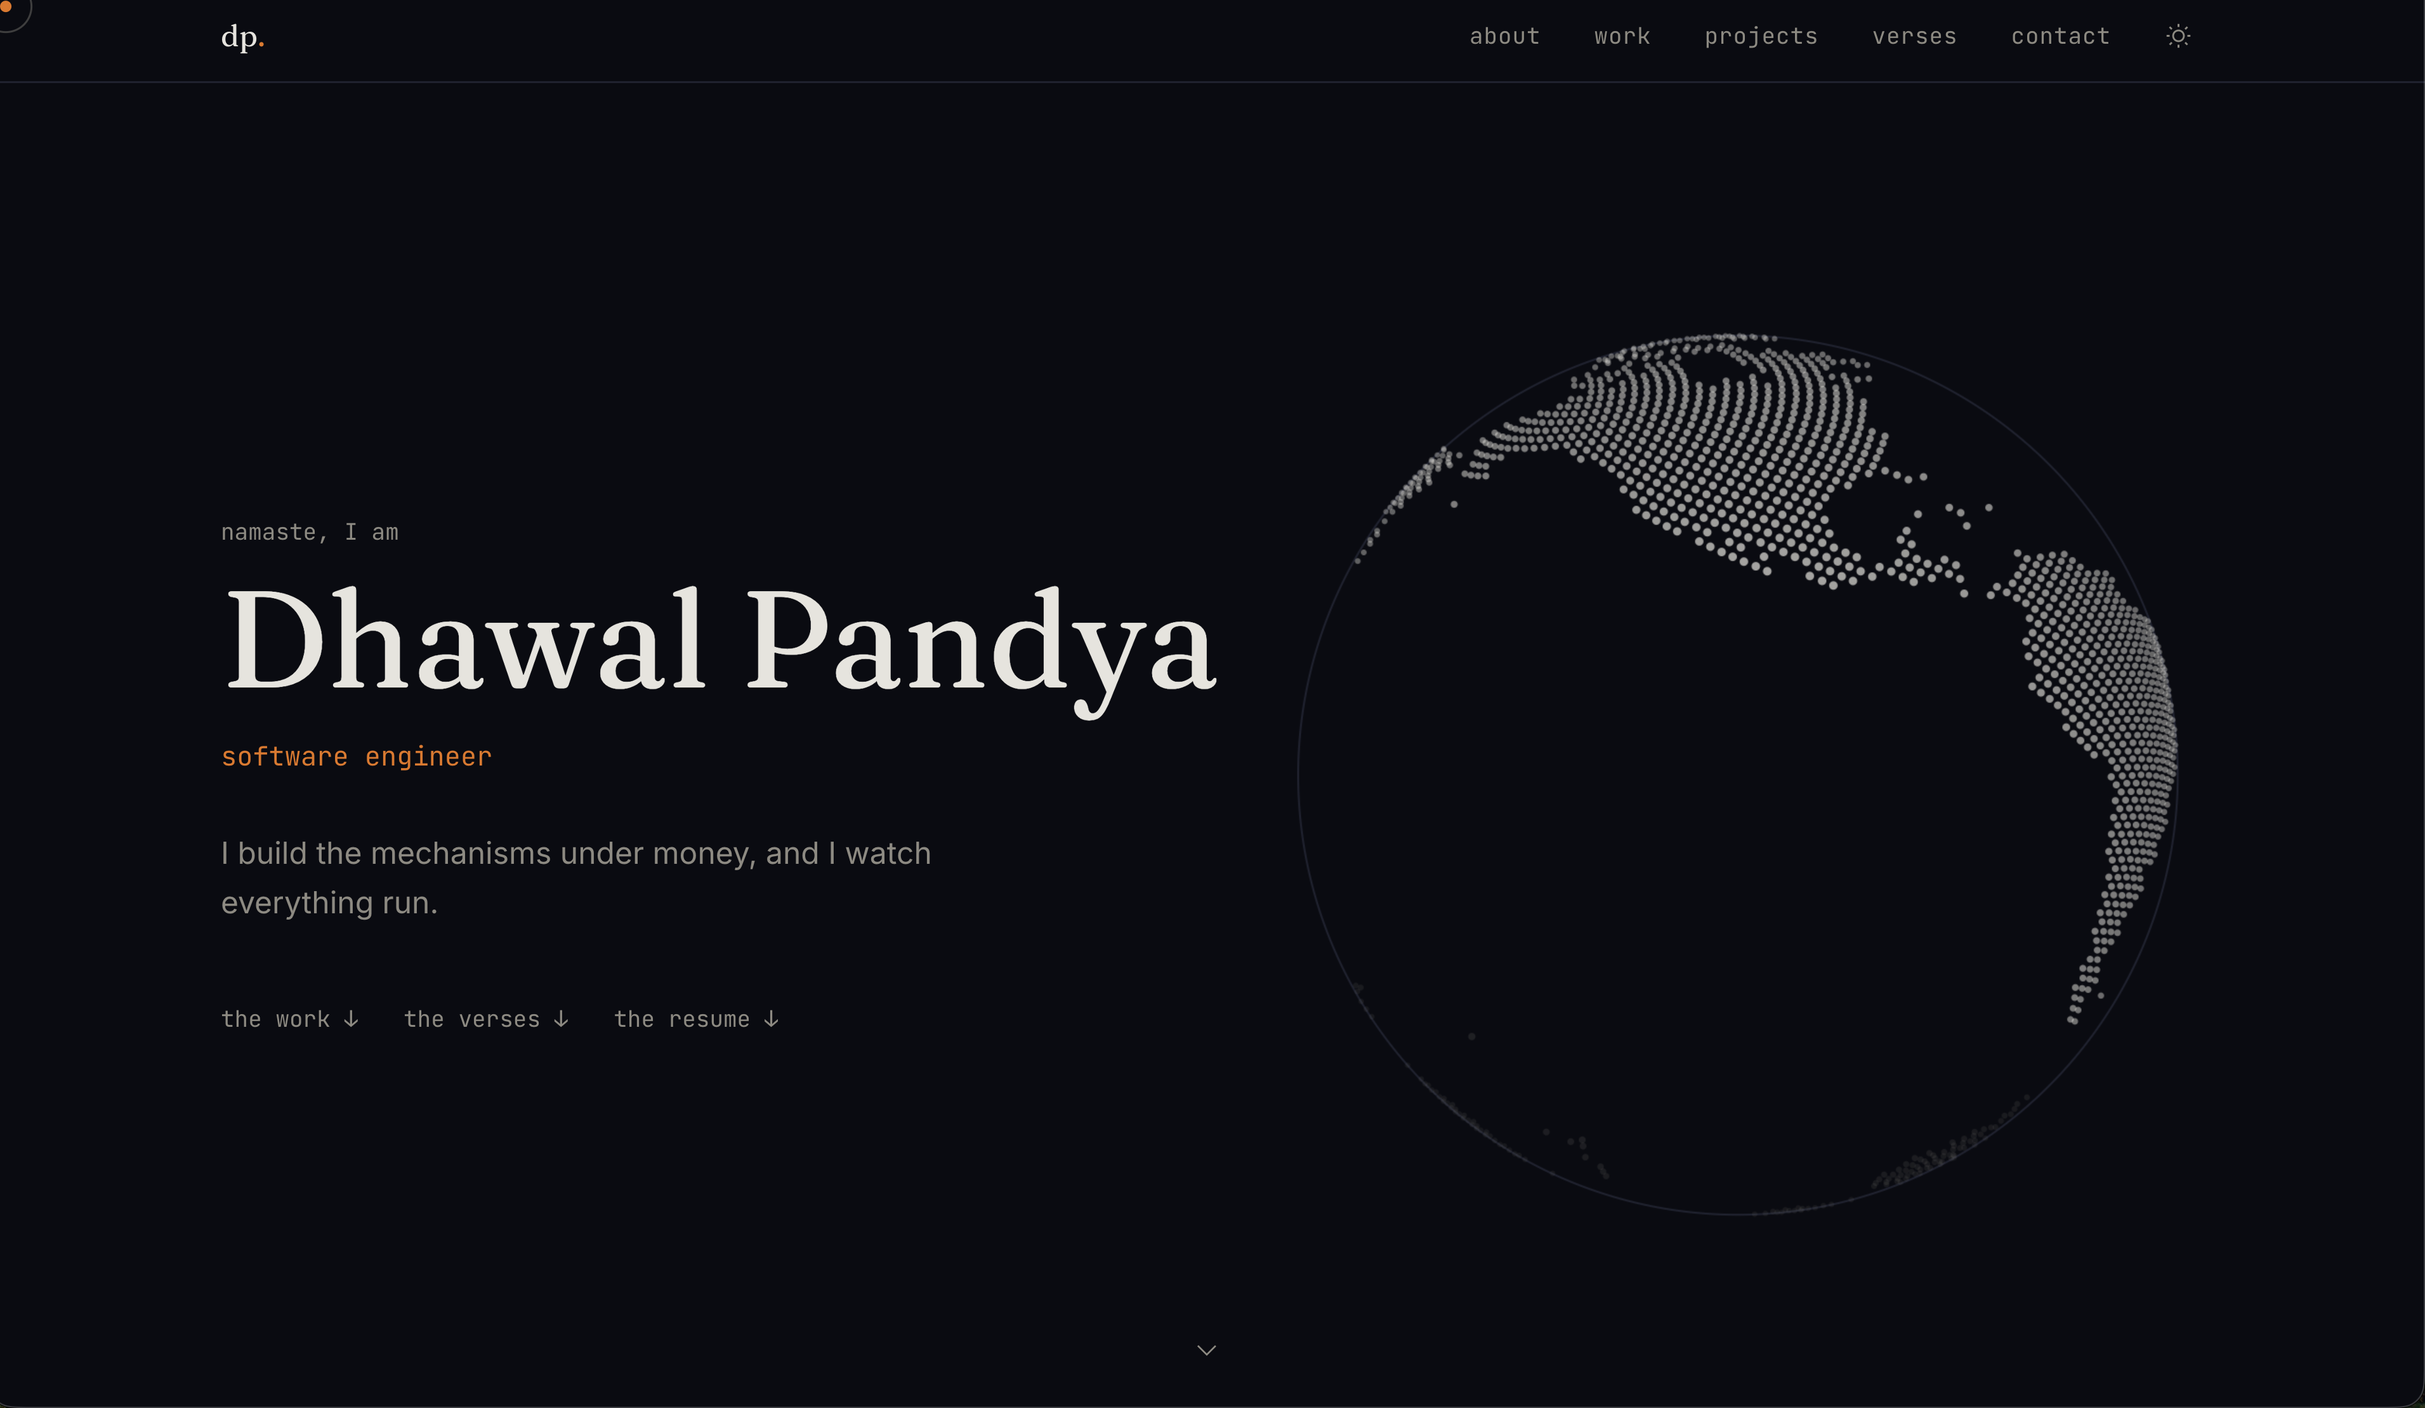
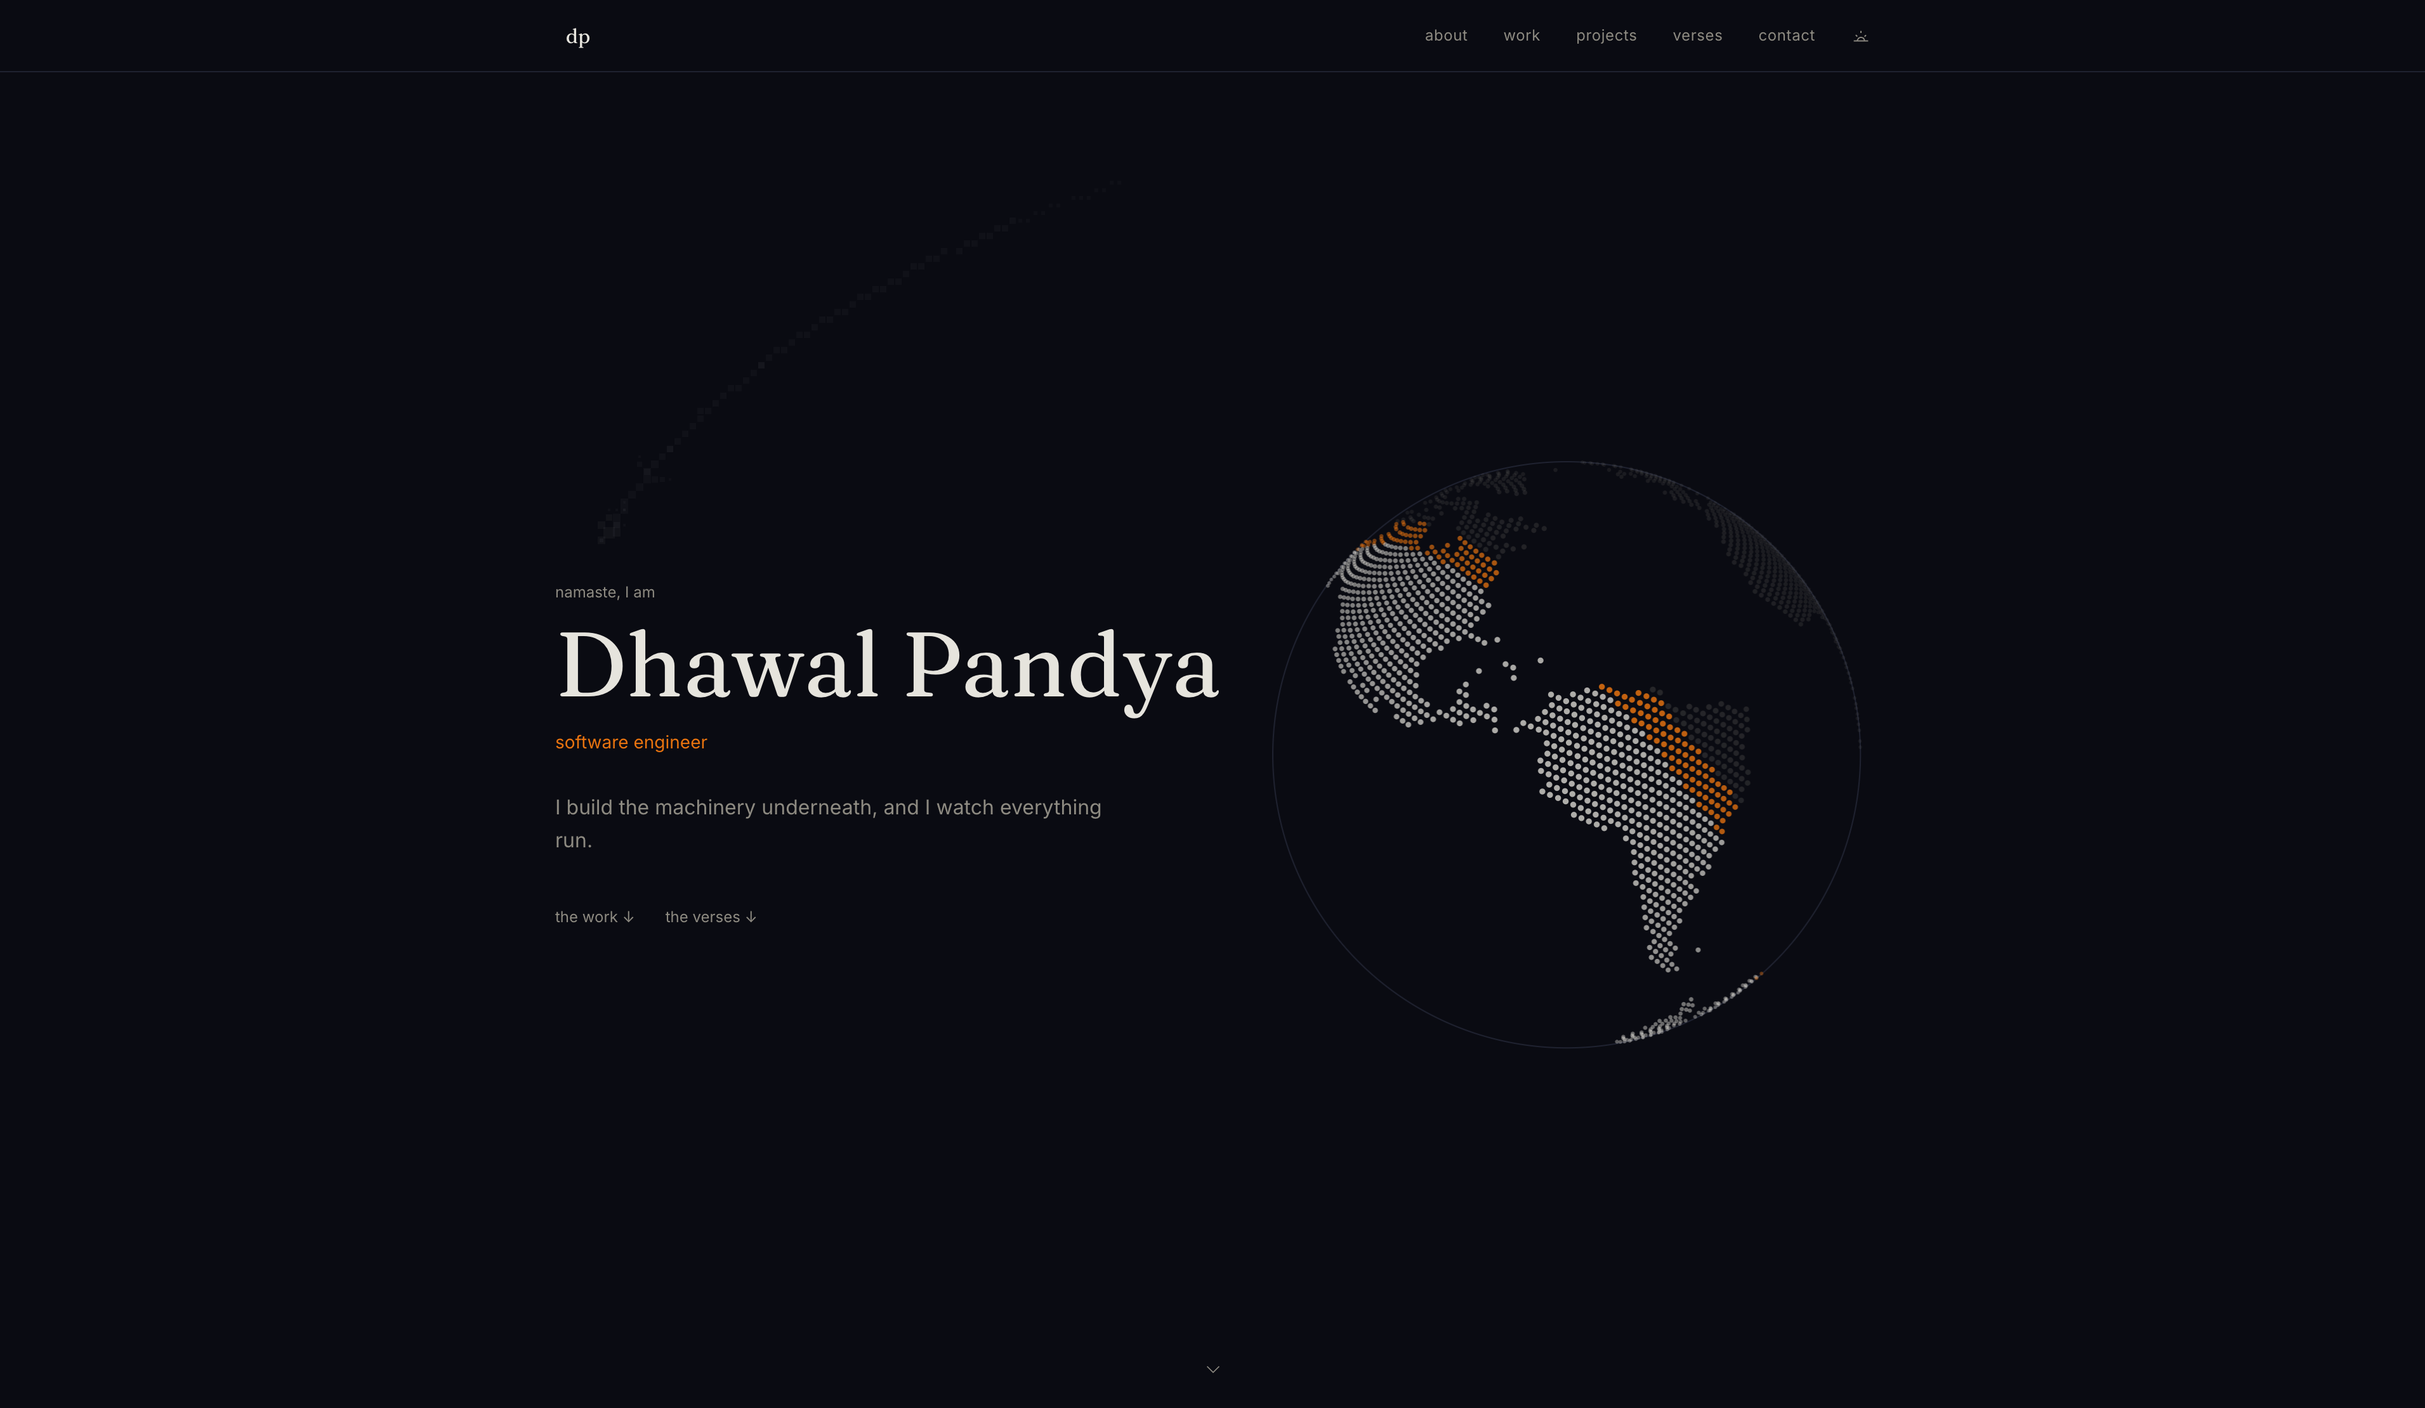
fix loose ends

diff --git a/src/components/secrets/Ash.jsx b/src/components/secrets/Ash.jsx
@@ -7,6 +7,15 @@ import useCanvasLoop from "../../lib/useCanvasLoop";
 // too tall the page breathes out once and begins again.
 
 const COL = 4; // px per pile column
+
+// How fast the room fills. Tune these by eye.
+const SPAWN = 5; // × flakes falling per second
+const SETTLE = 6; // × height each landed flake adds to the dune
+const RAMP = 45; // seconds of stillness to reach the heaviest fall
+const AIR = 3000; // most flakes aloft at once
+const SPREAD = [0.1, 0.2, 0.4, 0.2, 0.1]; // how a landing shares itself with neighbours
+const REPOSE = 2; // steepest step (px) between columns before the dune slumps
+
 const PILE_KEY = "kc-ash-pile";
 const CYCLE_KEY = "kc-ash-cycles";
 
@@ -157,11 +166,11 @@ const Ash = () => {
     // heavier it gets, up to a ceiling. Motion knocks it back down.
     const calm = 1 - Math.min(1, s.activity / 800);
     const idle = (Date.now() - s.lastInput) / 1000;
-    const ramp = Math.min(1, idle / 120); // two still minutes reach the ceiling
-    const rate = 1.5 + calm * (6 + 30 * ramp * ramp);
+    const ramp = Math.min(1, idle / RAMP);
+    const rate = (1.5 + calm * (6 + 30 * ramp * ramp)) * SPAWN;
 
     s.spawnAcc += rate * dt;
-    if (s.flakes.length > 700) s.spawnAcc = 0; // the air holds only so much
+    if (s.flakes.length > AIR) s.spawnAcc = 0; // the air holds only so much
     while (s.spawnAcc >= 1) {
       s.spawnAcc -= 1;
       s.flakes.push({
@@ -234,7 +243,13 @@ const Ash = () => {
       // settle
       const c = Math.max(0, Math.min(cols - 1, Math.floor(f.x / COL)));
       if (f.y >= h - s.pile[c] - f.r) {
-        s.pile[c] = Math.min(s.pile[c] + 0.55 + f.r * 0.2, h);
+        // a landing spreads a little sideways, so a heavy fall stays a dune
+        // and not a comb
+        const add = (0.55 + f.r * 0.2) * SETTLE;
+        for (let k = -2; k <= 2; k++) {
+          const cc = c + k;
+          if (cc >= 0 && cc < cols) s.pile[cc] = Math.min(s.pile[cc] + add * SPREAD[k + 2], h);
+        }
         continue;
       }
       if (f.y < h + 20) next.push(f);
@@ -242,13 +257,13 @@ const Ash = () => {
     s.flakes = next;
 
     // The dune relaxes; ash holds no edges for long.
-    for (let pass = 0; pass < 2; pass++) {
+    for (let pass = 0; pass < 3; pass++) {
       for (let c = 0; c < cols - 1; c++) {
         const diff = s.pile[c] - s.pile[c + 1];
-        if (diff > 5) {
+        if (diff > REPOSE) {
           s.pile[c] -= 0.5;
           s.pile[c + 1] += 0.5;
-        } else if (diff < -5) {
+        } else if (diff < -REPOSE) {
           s.pile[c] += 0.5;
           s.pile[c + 1] -= 0.5;
         }

diff --git a/src/components/cursor/Cursor.jsx b/src/components/cursor/Cursor.jsx
@@ -1,6 +1,13 @@
 import React, { useEffect, useRef } from "react";
 
-// A small ember dot and a slow ring. Precise pointers only; phones are spared.
+// A small ember dot and a slow ring. The ring is a first impression: it
+// lingers a moment, then thins away until only the ember is left. Over
+// anything you can press, it comes back. Precise pointers only.
+const RING = 0.4; // the ring's full presence
+const LINGER = 3; // seconds the ring stays before it starts to go
+const RISE = 10; // how quickly it returns over a clickable thing
+const FADE = 0.5; // how slowly it leaves; ~6s to all but vanish
+
 const Cursor = () => {
   const dotRef = useRef(null);
   const ringRef = useRef(null);
@@ -15,18 +22,29 @@ const Cursor = () => {
     const ring = ringRef.current;
     let x = -100, y = -100, rx = -100, ry = -100, hot = false;
     let raf = 0;
+    let alpha = RING;
+    let last = performance.now();
+    let lastHot = last; // arriving counts as a reason to show the ring
 
     const onMove = (e) => {
       x = e.clientX;
       y = e.clientY;
       hot = !!e.target.closest?.("a, button, [role='button'], canvas");
     };
-    const frame = () => {
+    const frame = (now) => {
+      const dt = Math.min((now - last) / 1000, 0.1);
+      last = now;
+      if (hot) lastHot = now;
+      const target = hot || now - lastHot < LINGER * 1000 ? RING : 0;
+      const rate = target > alpha ? RISE : FADE;
+      alpha += (target - alpha) * (1 - Math.exp(-rate * dt));
+
       rx += (x - rx) * 0.16;
       ry += (y - ry) * 0.16;
       dot.style.transform = `translate(${x - 3}px, ${y - 3}px)`;
       const sc = hot ? 1.6 : 1;
       ring.style.transform = `translate(${rx - 14}px, ${ry - 14}px) scale(${sc})`;
+      ring.style.opacity = alpha.toFixed(3);
       raf = requestAnimationFrame(frame);
     };
     window.addEventListener("pointermove", onMove);
@@ -48,8 +66,8 @@ const Cursor = () => {
       <div
         ref={ringRef}
         aria-hidden="true"
-        className="pointer-events-none fixed left-0 top-0 z-[100] hidden h-[28px] w-[28px] rounded-full border opacity-40 transition-transform duration-75 md:block"
-        style={{ borderColor: "var(--ink-soft)" }}
+        className="pointer-events-none fixed left-0 top-0 z-[100] hidden h-[28px] w-[28px] rounded-full border transition-transform duration-75 md:block"
+        style={{ borderColor: "var(--ink-soft)", opacity: RING }}
       />
     </>
   );

diff --git a/src/components/contact/Snake.jsx b/src/components/contact/Snake.jsx
@@ -7,6 +7,7 @@ import { quip } from "../../lib/quips";
 
 const CELL = 20;
 const STEP = 0.13;
+const START_LEN = 16; // born long; a narrow board trims it to fit
 
 function colors() {
   const cs = getComputedStyle(document.documentElement);
@@ -34,9 +35,11 @@ const Snake = () => {
   const reset = (cols, rows) => {
     const s = st.current;
     const r = Math.floor(rows / 2);
-    s.snake = [[4, r], [3, r], [2, r]];
+    // laid out along the middle row, head to the right, tail at column 1
+    const len = Math.max(3, Math.min(START_LEN, cols - 3));
+    s.snake = Array.from({ length: len }, (_, i) => [len - i, r]);
     s.dir = [1, 0];
-    s.food = [Math.floor(cols * 0.7), r];
+    s.food = [Math.min(cols - 2, Math.max(len + 3, Math.floor(cols * 0.7))), r];
     s.dead = 0;
   };
 
@@ -65,7 +68,20 @@ const Snake = () => {
       s.dir = d;
     };
     const canvas = canvasRef.current;
-    const onClick = () => quip("snake");
+    // It only answers a touch on its own body. Links and buttons win: a
+    // click meant for them is never the snake's.
+    const onClick = (e) => {
+      if (e.target.closest?.("a, button, input, textarea, [role='button']")) return;
+      if (!canvas) return;
+      const rect = canvas.getBoundingClientRect();
+      const px = e.clientX - rect.left;
+      const py = e.clientY - rect.top;
+      // within a cell of a segment's centre; it moves ~8 cells a second
+      const hit = s.snake.some(
+        ([x, y]) => Math.hypot(px - (x + 0.5) * CELL, py - (y + 0.5) * CELL) < CELL
+      );
+      if (hit) quip("snake");
+    };
     window.addEventListener("kc-theme", onTheme);
     window.addEventListener("kc-snake-play", onPlay);
     window.addEventListener("keydown", onKey);

diff --git a/src/App.jsx b/src/App.jsx
@@ -108,17 +108,6 @@ const App = () => {
         quip("resize");
       }
     };
-    let hiddenAt = 0;
-    const onVis = () => {
-      if (document.hidden) hiddenAt = Date.now();
-      else if (hiddenAt && Date.now() - hiddenAt > 5 * 60 * 1000) quip("return");
-    };
-    let lastMove = Date.now();
-    const onActive = () => {
-      const now = Date.now();
-      if (now - lastMove > 5 * 60 * 1000 && !document.hidden) quip("idle");
-      lastMove = now;
-    };
     let clicks = [];
     const onClick = (e) => {
       if (e.target.closest?.("a, button, canvas, input, textarea, [role='button']")) return;
@@ -129,21 +118,14 @@ const App = () => {
         quip("click");
       }
     };
-    const onPrint = () => quip("print");
 
     document.addEventListener("copy", onCopy);
     window.addEventListener("resize", onResize);
-    document.addEventListener("visibilitychange", onVis);
-    window.addEventListener("pointermove", onActive);
     window.addEventListener("click", onClick);
-    window.addEventListener("beforeprint", onPrint);
     return () => {
       document.removeEventListener("copy", onCopy);
       window.removeEventListener("resize", onResize);
-      document.removeEventListener("visibilitychange", onVis);
-      window.removeEventListener("pointermove", onActive);
       window.removeEventListener("click", onClick);
-      window.removeEventListener("beforeprint", onPrint);
     };
   }, []);
 

diff --git a/src/components/verses/Verses.jsx b/src/components/verses/Verses.jsx
@@ -2,7 +2,6 @@ import React, { useEffect, useRef, useState } from "react";
 import SectionHead from "../shared/SectionHead";
 import POEMS from "../../data/poems.json";
 import PROFILE from "../../data/profile.json";
-import { quip } from "../../lib/quips";
 
 // Each poem is a sheet of paper. The paper and the ink follow the nature of
 // the poem; see src/data/POEMS_README.md before adding one.
@@ -65,7 +64,6 @@ const Verses = () => {
   const poems = POEMS.filter(valid);
   const scroller = useRef(null);
   const [index, setIndex] = useState(0);
-  const endQuipped = useRef(false);
 
   useEffect(() => {
     const el = scroller.current;
@@ -73,10 +71,6 @@ const Verses = () => {
     const onScroll = () => {
       const i = Math.round((el.scrollLeft / (el.scrollWidth - el.clientWidth || 1)) * (poems.length - 1));
       setIndex(Math.min(Math.max(i, 0), poems.length - 1));
-      if (el.scrollLeft >= el.scrollWidth - el.clientWidth - 2 && !endQuipped.current) {
-        endQuipped.current = true;
-        quip("paper");
-      }
     };
     el.addEventListener("scroll", onScroll, { passive: true });
     return () => el.removeEventListener("scroll", onScroll);

diff --git a/src/components/secrets/Kanban.jsx b/src/components/secrets/Kanban.jsx
@@ -80,7 +80,11 @@ const Kanban = ({ open, onClose }) => {
     setBoard((b) => ({ ...b, [col]: b[col].filter((_, j) => j !== i) }));
 
   return (
-    <div className="fixed inset-0 z-[85] grid place-items-center bg-black/40 p-4" onClick={onClose}>
+    <div
+      className="fixed inset-0 z-[85] grid place-items-center p-4 backdrop-blur-sm"
+      style={{ background: "color-mix(in srgb, var(--bg) 70%, transparent)" }}
+      onClick={onClose}
+    >
       <div
         className="w-full max-w-3xl rounded border hairline bg-bg p-6 shadow-2xl"
         onClick={(e) => e.stopPropagation()}

diff --git a/src/components/contact/Contact.jsx b/src/components/contact/Contact.jsx
@@ -2,7 +2,6 @@ import React, { useState } from "react";
 import SectionHead from "../shared/SectionHead";
 import Snake from "./Snake";
 import PROFILE from "../../data/profile.json";
-import { quip } from "../../lib/quips";
 
 const Contact = () => {
   const [copied, setCopied] = useState(false);
@@ -12,7 +11,6 @@ const Contact = () => {
       await navigator.clipboard.writeText(PROFILE.email);
       setCopied(true);
       setTimeout(() => setCopied(false), 2000);
-      quip("contact");
     } catch {
       window.location.href = `mailto:${PROFILE.email}`;
     }

diff --git a/src/components/about/About.jsx b/src/components/about/About.jsx
@@ -23,7 +23,7 @@ const About = () => {
   return (
     <section id="about" className="relative">
       <Chai />
-      <div className="relative z-10 mx-auto max-w-site px-5 py-24 md:px-8 md:py-32">
+      <div className="relative z-10 mx-auto max-w-site px-5 py-12 md:px-8 md:py-16">
       <SectionHead title="about" mark="परिचयः" />
       <div className="grid grid-cols-1 gap-10 md:grid-cols-[320px_1fr] md:gap-16">
         <div

diff --git a/src/data/POEMS_README.md b/src/data/POEMS_README.md
@@ -1,0 +1,46 @@
+# Adding a poem
+
+Poems live in `poems.json`, one object per poem, in the order they appear on
+the page. Each one is printed on its own sheet of paper, and the paper, ink and
+typeface come from the poem's **nature**, not from the site's day/night theme.
+
+```json
+{
+  "slug": "after-midnight",
+  "title": "After Midnight",
+  "nature": "night",
+  "note": "optional, a small line under the title",
+  "year": "optional, printed at the foot of the sheet",
+  "stanzas": [
+    ["first line", "second line"],
+    ["a new stanza starts a new array"]
+  ]
+}
+```
+
+| field | required | notes |
+|---|---|---|
+| `slug` | yes | unique, lowercase, hyphenated. The terminal uses it (`poems after-midnight`), and it also seeds the sheet's slight tilt |
+| `title` | yes | |
+| `nature` | yes | one of the natures below. Any other value means the poem is skipped, with a console error in dev |
+| `stanzas` | yes | an array of stanzas, each an array of lines |
+| `note` | no | |
+| `year` | no | |
+
+## Natures
+
+Pick the one that matches the poem's weather. They're defined in
+`src/components/verses/Verses.jsx` (`NATURES`).
+
+| nature | paper | ink | face | use for |
+|---|---|---|---|---|
+| `love` | warm cream | brown | Kalam, handwritten | tenderness, longing |
+| `light` | near-white | soft charcoal | Kalam, handwritten | playful, light-hearted (no poem uses it yet) |
+| `night` | deep navy | pale blue | Fraunces light italic | late hours, quiet |
+| `rage` | near-black | ember | Fraunces black | anger |
+| `cosmic` | the site's night sky | the site's night ink | EB Garamond | the vast, the metaphysical |
+| `resolve` | the site's day paper | the site's day ink | EB Garamond | will, duty, steadiness |
+| `grief` | cool grey | grey | Fraunces | loss, endings |
+
+To add a new nature, add an entry to `NATURES` with `paper`, `ink`, `font` and
+`size`, then add it to this table.

diff --git a/README.md b/README.md
@@ -6,7 +6,7 @@ behind the projects, a snake plays itself behind the contact lines, and the
 poems are printed on paper that matches their nature.
 
 Built with React, Vite, and Tailwind. Design and architecture notes live in
-[REWRITE_PLAN.md](REWRITE_PLAN.md); read it before changing anything structural.
+[DESIGN.md](DESIGN.md); read it before changing anything structural.
 
 ## Develop
 
